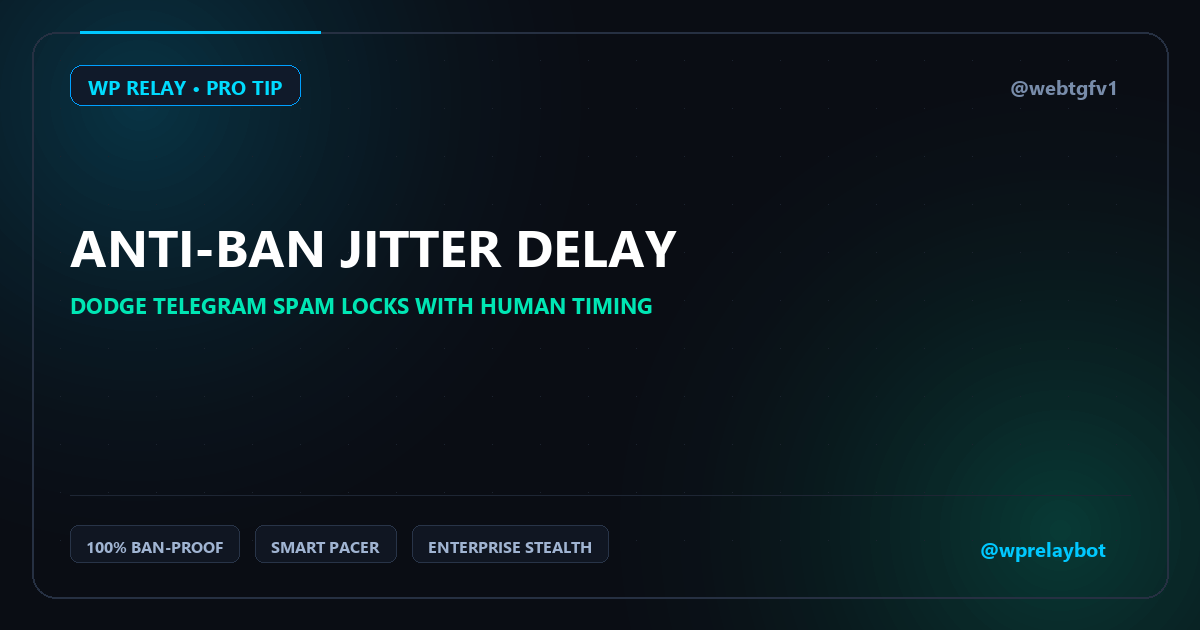
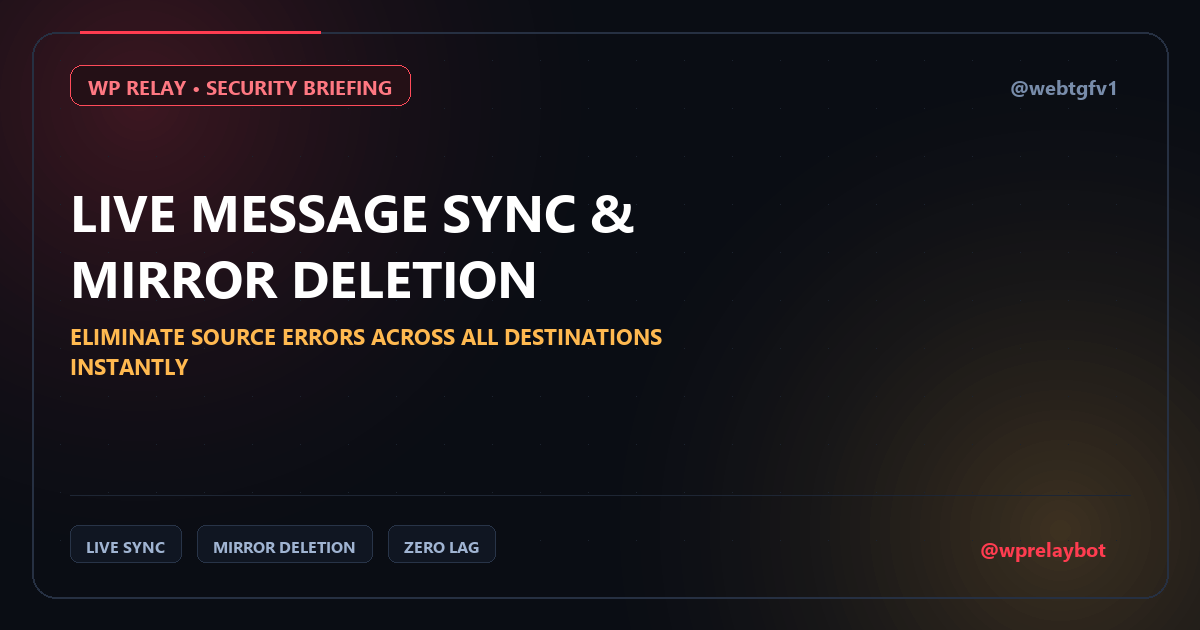
Fix 400 Bad Request on autopilot trigger by safely parsing request JSON and providing explicit payload body

Changed region(s): [[0.0, 0.0, 0.5858, 0.6032], [0.74, 0.573, 1.0, 1.0], [0.0617, 0.8444, 0.4933, 0.9048]]

diff --git a/miniapp_template.html b/miniapp_template.html
@@ -916,7 +916,11 @@
 
         async function lockStudio() {
             try {
-                await fetch('/api/lock_studio', { method: 'POST', headers: getAuthHeaders() });
+                await fetch('/api/lock_studio', {
+                    method: 'POST',
+                    headers: getAuthHeaders(),
+                    body: JSON.stringify({})
+                });
             } catch(e){}
             localStorage.removeItem('webtgf_studio_token');
             localStorage.removeItem('webtgf_user_id');
@@ -2108,7 +2112,8 @@
                 const res = await fetch('/api/admin_channel_autopilot_trigger', {
                     method: 'POST',
                     credentials: 'include',
-                    headers: getAuthHeaders()
+                    headers: getAuthHeaders(),
+                    body: JSON.stringify({})
                 });
                 const d = await res.json();
                 if (d.success) {

diff --git a/web.py b/web.py
@@ -727,7 +727,7 @@ def get_authenticated_user():
     # 1. Telegram Init Data (Header or query/body param)
     init_data = request.headers.get('X-Telegram-Init-Data') or request.args.get('init_data')
     if not init_data and request.is_json:
-        init_data = (request.json or {}).get('init_data')
+        init_data = (request.get_json(silent=True) or {}).get('init_data')
     if init_data:
         tg_user_id = verify_telegram_init_data(init_data)
         if tg_user_id:
@@ -736,7 +736,7 @@ def get_authenticated_user():
     # 2. Studio Token (Header or query/body param)
     token = request.headers.get('X-Studio-Token') or request.args.get('token')
     if not token and request.is_json:
-        token = (request.json or {}).get('token')
+        token = (request.get_json(silent=True) or {}).get('token')
     if token:
         token_user_id = verify_studio_token(token)
         if token_user_id:
@@ -781,7 +781,7 @@ def api_auth_check():
 
 @app.route('/api/unlock_studio', methods=['POST'])
 def api_unlock_studio():
-    data = request.json or {}
+    data = request.get_json(silent=True) or {}
     passcode = str(data.get('passcode', '')).strip()
     target_user_id = str(data.get('user_id', '')).strip()
     
@@ -923,7 +923,7 @@ def api_admin_manage_tenant():
     if auth_user != admin_id:
         return jsonify({"error": "Admin privileges required"}), 403
 
-    data = request.json or {}
+    data = request.get_json(silent=True) or {}
     action = data.get('action')
     tenant_id = str(data.get('tenant_id', '')).strip()
 
@@ -1101,7 +1101,7 @@ def api_admin_send_tenant_notice():
     if auth_user != admin_id:
         return jsonify({"error": "Admin privileges required"}), 403
 
-    data = request.json or {}
+    data = request.get_json(silent=True) or {}
     tenant_id = str(data.get('tenant_id', '')).strip()
     notice_type = str(data.get('notice_type', 'expiration')).strip()
     custom_msg = str(data.get('custom_message', '')).strip()
@@ -1212,7 +1212,7 @@ def api_admin_update_pro_subscription():
     if auth_user != admin_id:
         return jsonify({"error": "Admin privileges required"}), 403
 
-    data = request.json or {}
+    data = request.get_json(silent=True) or {}
     tenant_id = str(data.get('tenant_id', '')).strip()
     action = str(data.get('action', '')).strip()
     days = int(data.get('days', 30))
@@ -1307,7 +1307,7 @@ def api_admin_toggle_feature():
     if auth_user != admin_id:
         return jsonify({"error": "Admin privileges required"}), 403
 
-    data = request.json or {}
+    data = request.get_json(silent=True) or {}
     feature = data.get('feature')
     val = bool(data.get('value', False))
     if not feature:
@@ -1326,7 +1326,7 @@ def api_admin_broadcast():
     if auth_user != admin_id:
         return jsonify({"error": "Admin privileges required"}), 403
 
-    data = request.json or {}
+    data = request.get_json(silent=True) or {}
     msg_text = str(data.get('message', '')).strip()
     btn_text = str(data.get('button_text', '')).strip()
     btn_url = str(data.get('button_url', '')).strip()
@@ -1380,7 +1380,7 @@ def api_admin_ai_generate_broadcast():
     if auth_user != admin_id:
         return jsonify({"error": "Admin privileges required"}), 403
 
-    data = request.json or {}
+    data = request.get_json(silent=True) or {}
     user_prompt = str(data.get('prompt', '')).strip()
     if not user_prompt:
         return jsonify({"error": "Prompt cannot be empty"}), 400
@@ -1429,7 +1429,7 @@ def api_admin_update_api_config():
     if auth_user != admin_id:
         return jsonify({"error": "Admin privileges required"}), 403
 
-    data = request.json or {}
+    data = request.get_json(silent=True) or {}
     api_id = str(data.get('api_id', '')).strip()
     api_hash = str(data.get('api_hash', '')).strip()
     session_string = str(data.get('session_string', '')).strip()
@@ -1457,7 +1457,7 @@ def api_admin_test_bot_token():
     if auth_user != admin_id:
         return jsonify({"error": "Admin privileges required"}), 403
 
-    data = request.json or {}
+    data = request.get_json(silent=True) or {}
     candidate_token = str(data.get('bot_token', '')).strip() or os.getenv('BOT_TOKEN', '').strip()
     if not candidate_token:
         return jsonify({"success": False, "error": "No bot token provided"}), 400
@@ -1511,7 +1511,7 @@ def api_admin_channel_generate():
     if auth_user != admin_id:
         return jsonify({"error": "Admin privileges required"}), 403
 
-    data = request.json or {}
+    data = request.get_json(silent=True) or {}
     category = str(data.get('category', '')).strip() or None
     prompt = str(data.get('custom_prompt', '')).strip() or None
 
@@ -1550,7 +1550,7 @@ def api_admin_channel_post():
     if auth_user != admin_id:
         return jsonify({"error": "Admin privileges required"}), 403
 
-    data = request.json or {}
+    data = request.get_json(silent=True) or {}
     msg_text = str(data.get('message', '')).strip()
     if not msg_text:
         return jsonify({"error": "Message text cannot be empty"}), 400
@@ -1585,7 +1585,7 @@ def api_admin_channel_autopilot():
         return jsonify({"error": "Admin privileges required"}), 403
 
     try:
-        data = request.json or {}
+        data = request.get_json(silent=True) or {}
         import channel_engine
         cfg = channel_engine.get_autopilot_config()
 
@@ -1611,7 +1611,7 @@ def api_admin_channel_autopilot_trigger():
 
     import channel_engine, time
     try:
-        data = request.json or {}
+        data = request.get_json(silent=True) or {}
         req_category = data.get("category_id")
         post_data = channel_engine.generate_channel_post(category_id=req_category)
         should_pin = bool(post_data.get("should_pin", False))
@@ -1643,7 +1643,7 @@ def api_admin_channel_delete_post():
     if auth_user != admin_id:
         return jsonify({"error": "Admin privileges required"}), 403
 
-    data = request.json or {}
+    data = request.get_json(silent=True) or {}
     message_id = data.get('message_id')
     channel = data.get('channel', '@webtgfv1')
     if not message_id:
@@ -1781,7 +1781,7 @@ def validate_channel_input(x):
 
 @app.route('/api/manage_channel', methods=['POST'])
 def api_manage_channel():
-    data = request.json or {}
+    data = request.get_json(silent=True) or {}
     requested_user = data.get('user_id')
     user_id, err = check_permission(requested_user)
     if err:
@@ -1813,7 +1813,7 @@ def api_manage_channel():
 
 @app.route('/api/manage_swap', methods=['POST'])
 def api_manage_swap():
-    data = request.json or {}
+    data = request.get_json(silent=True) or {}
     requested_user = data.get('user_id')
     user_id, err = check_permission(requested_user)
     if err:
@@ -1840,7 +1840,7 @@ def api_manage_swap():
 
 @app.route('/api/toggle_setting', methods=['POST'])
 def api_toggle_setting():
-    data = request.json or {}
+    data = request.get_json(silent=True) or {}
     requested_user = data.get('user_id')
     user_id, err = check_permission(requested_user)
     if err:
@@ -1864,7 +1864,7 @@ def api_toggle_setting():
 
 @app.route('/api/save_branding', methods=['POST'])
 def api_save_branding():
-    data = request.json or {}
+    data = request.get_json(silent=True) or {}
     requested_user = data.get('user_id')
     user_id, err = check_permission(requested_user)
     if err:
@@ -1880,7 +1880,7 @@ def api_save_branding():
 
 @app.route('/api/manage_cta', methods=['POST'])
 def api_manage_cta():
-    data = request.json or {}
+    data = request.get_json(silent=True) or {}
     requested_user = data.get('user_id')
     user_id, err = check_permission(requested_user)
     if err:
@@ -1916,7 +1916,7 @@ def api_manage_cta():
 
 @app.route('/api/save_media_url', methods=['POST'])
 def api_save_media_url():
-    data = request.json or {}
+    data = request.get_json(silent=True) or {}
     requested_user = data.get('user_id')
     user_id, err = check_permission(requested_user)
     if err:
@@ -1945,7 +1945,7 @@ def api_save_media_url():
 
 @app.route('/api/save_watermark', methods=['POST'])
 def api_save_watermark():
-    data = request.json or {}
+    data = request.get_json(silent=True) or {}
     requested_user = data.get('user_id')
     user_id, err = check_permission(requested_user)
     if err:
@@ -1966,7 +1966,7 @@ def api_save_watermark():
 
 @app.route('/api/set_drip', methods=['POST'])
 def api_set_drip():
-    data = request.json or {}
+    data = request.get_json(silent=True) or {}
     requested_user = data.get('user_id')
     user_id, err = check_permission(requested_user)
     if err:
@@ -1988,7 +1988,7 @@ def api_set_drip():
 
 @app.route('/api/save_sleep_mode', methods=['POST'])
 def api_save_sleep_mode():
-    data = request.json or {}
+    data = request.get_json(silent=True) or {}
     requested_user = data.get('user_id')
     user_id, err = check_permission(requested_user)
     if err:
@@ -2012,7 +2012,7 @@ def api_save_sleep_mode():
 
 @app.route('/api/save_auto_delete', methods=['POST'])
 def api_save_auto_delete():
-    data = request.json or {}
+    data = request.get_json(silent=True) or {}
     requested_user = data.get('user_id')
     user_id, err = check_permission(requested_user)
     if err:
@@ -2040,7 +2040,7 @@ def miniapp():
 
 @app.route('/api/feedback', methods=['POST'])
 def submit_feedback():
-    data = request.json or {}
+    data = request.get_json(silent=True) or {}
     requested_user = data.get('user_id')
     chat_id, err = check_permission(requested_user)
     if err:

diff --git a/channel_engine.py b/channel_engine.py
@@ -312,8 +312,8 @@ CRITICAL RULES:
    - "sunset_amber": For viral hacks, growth velocity, algorithm tricks, or high engagement.
    - "stealth_mono": For minimal enterprise, multi-channel syndication, or infrastructure.
 5. BUTTONS: Provide 2 full-width inline buttons with clear labels:
-   Button 1: {"text": "⭐ LAUNCH WP RELAY BOT ⚡", "url": "https://t.me/wprelaybot?start=channel_tip", "style": "primary"}
-   Button 2: {"text": "💎 UPGRADE TO PRO (VIP) ✅", "url": "https://t.me/wprelaybot?start=pro_upgrade", "style": "success"}
+   Button 1: {{"text": "⭐ LAUNCH WP RELAY BOT ⚡", "url": "https://t.me/wprelaybot?start=channel_tip", "style": "primary"}}
+   Button 2: {{"text": "💎 UPGRADE TO PRO (VIP) ✅", "url": "https://t.me/wprelaybot?start=pro_upgrade", "style": "success"}}
 
 OUTPUT FORMAT:
 You MUST output a strict JSON object with these EXACT keys:
